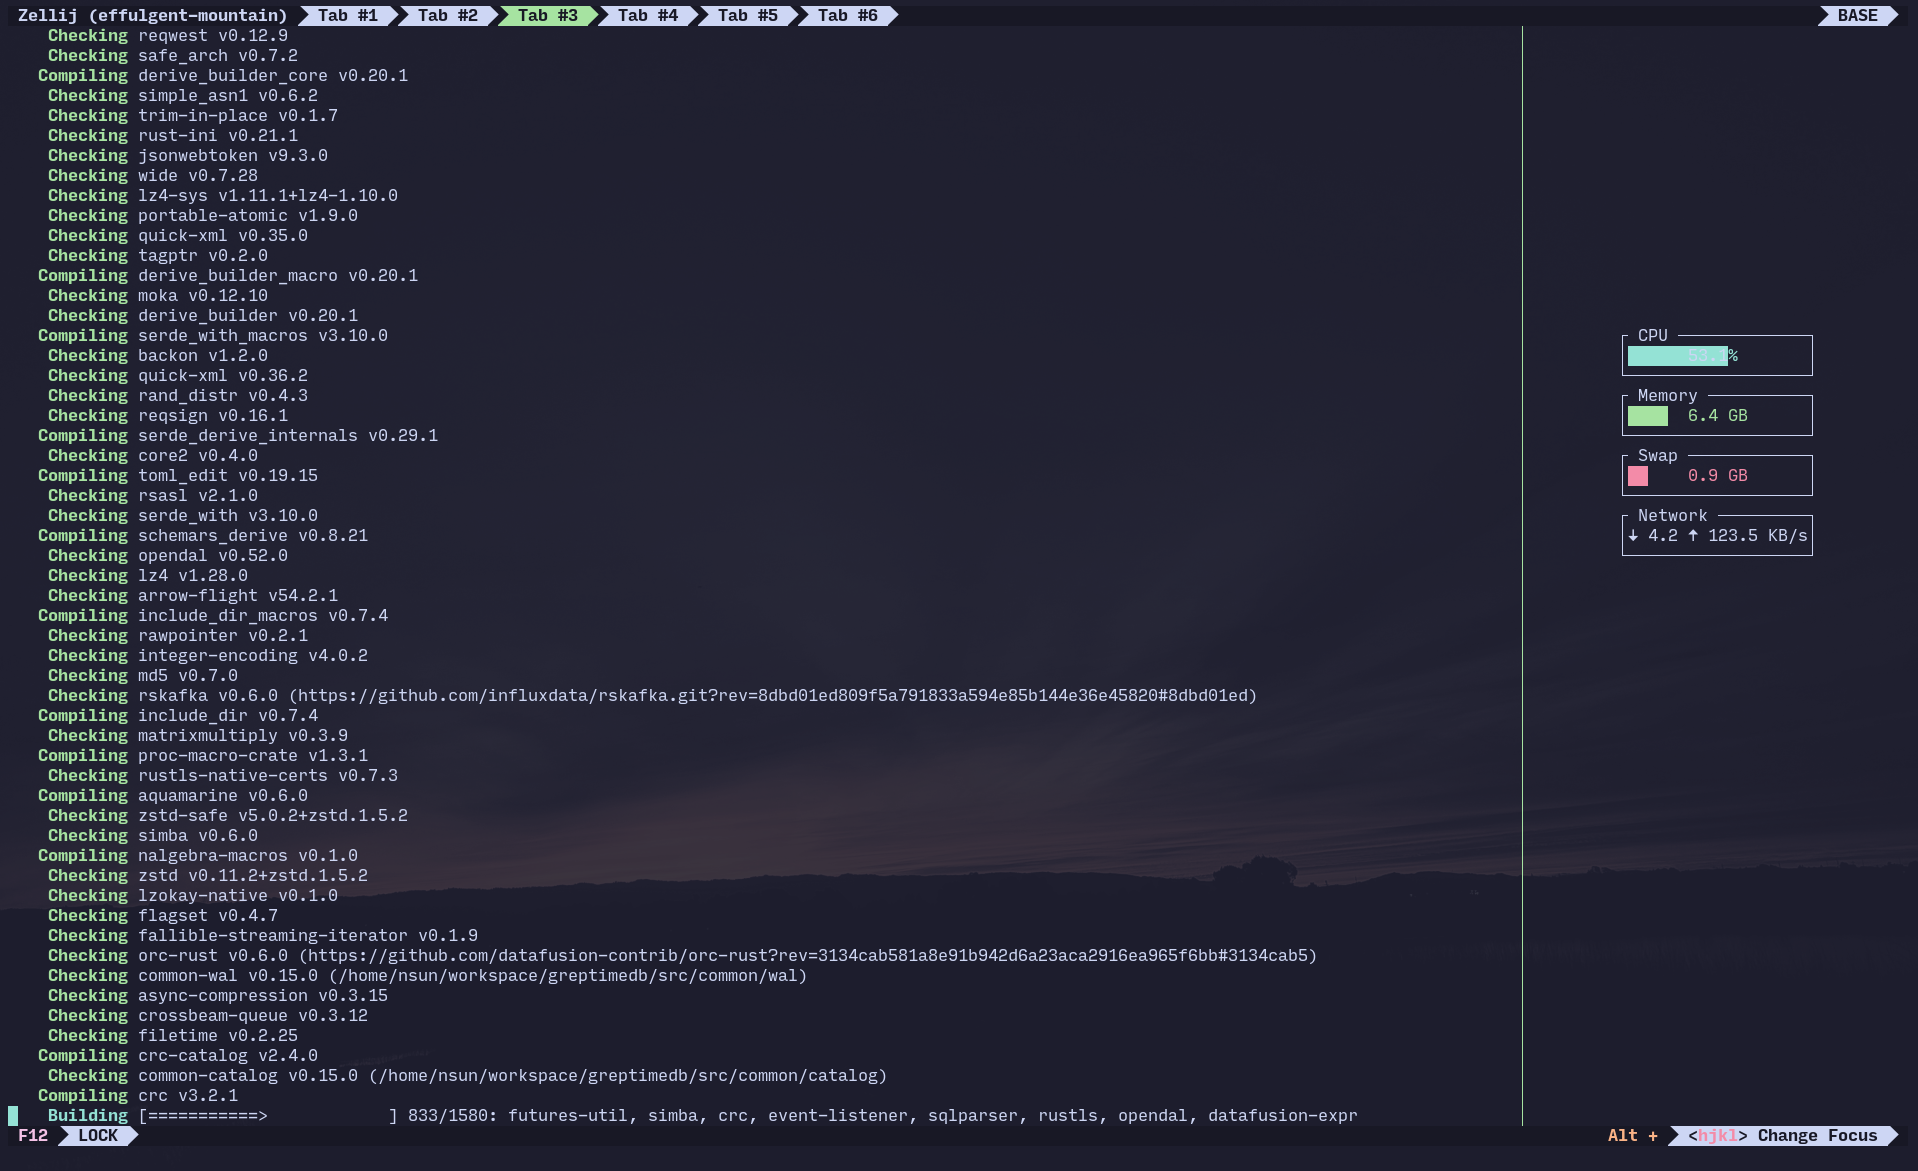
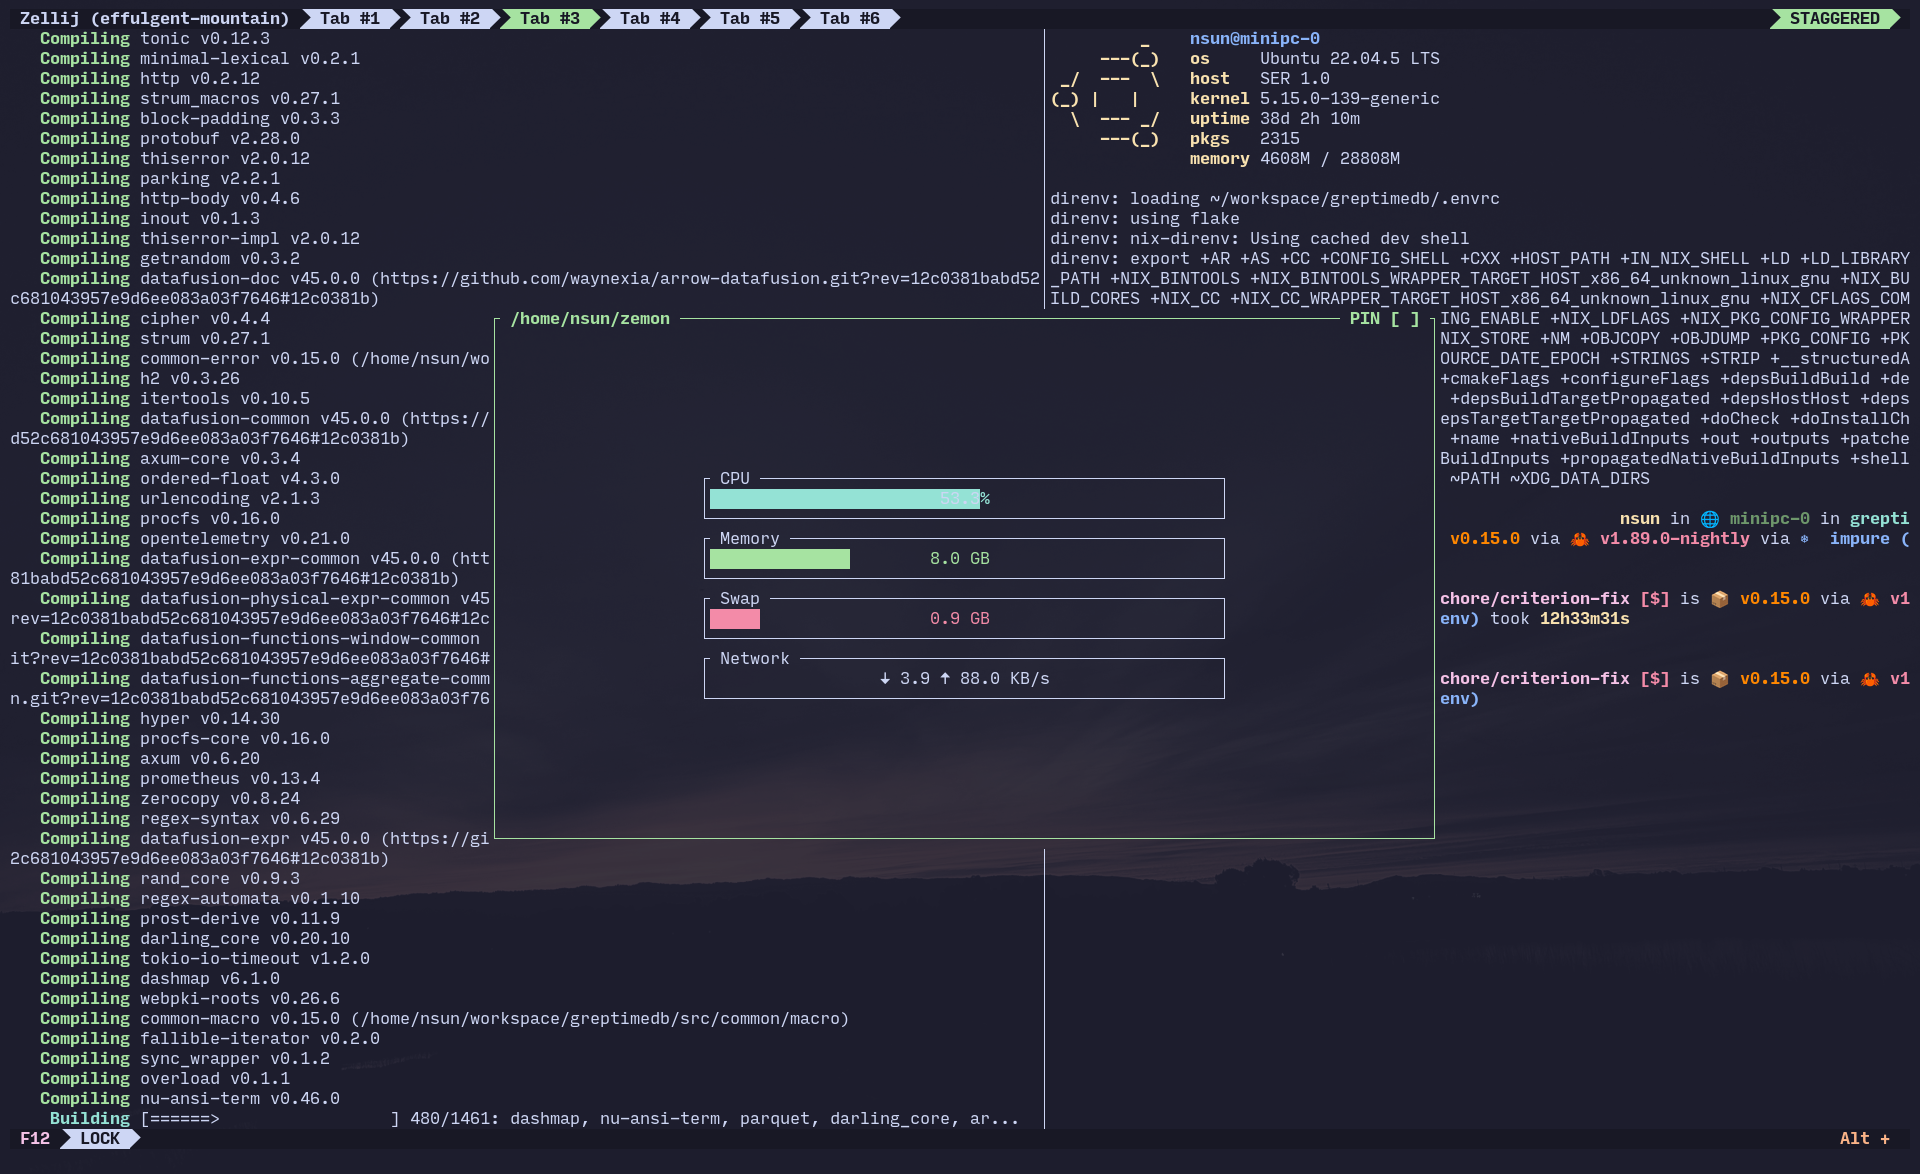
chore: describe typical usage

diff --git a/README.md b/README.md
@@ -71,6 +71,15 @@ Add to your `home.nix`:
 }
 ```
 
+## Usage
+
+You can start `zemon` from any shell. But it is designed for using in Zellij
+typically. Start it as a floating pane in Zellij:
+
+```bash
+zellij run -f -c -- zemon
+```
+
 ## Development
 
 ### Using the development shell
